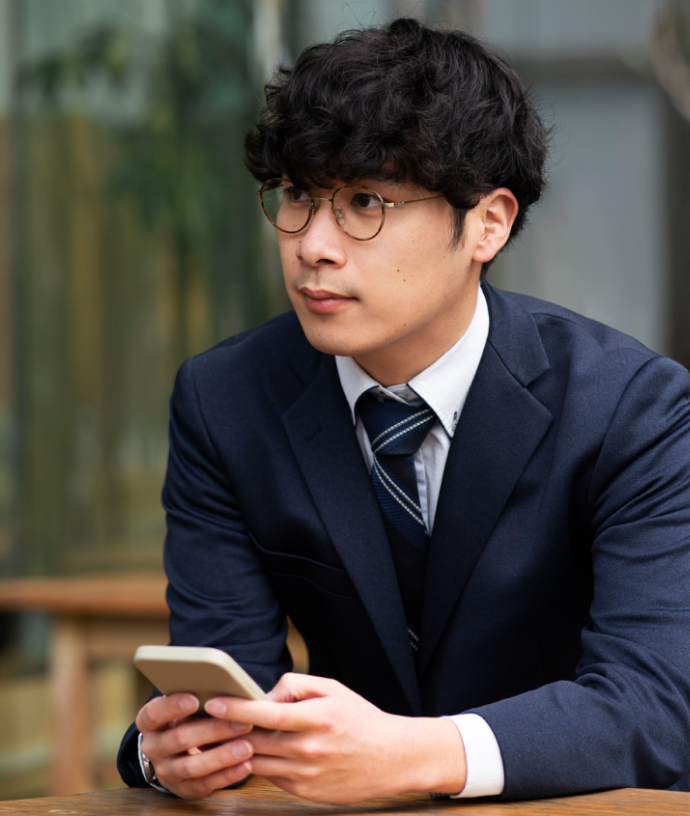
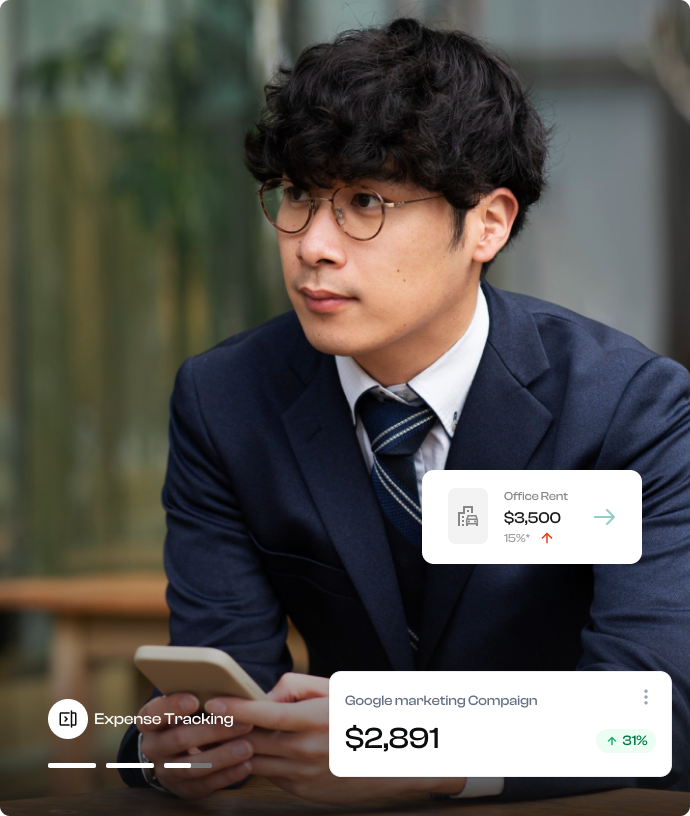
hero img

Changed region(s): [[0.0, 0.7659, 1.0, 1.0], [0.6087, 0.5515, 0.9435, 0.7047]]

diff --git a/apicalypse-front/src/pages/Home/HomePage.jsx b/apicalypse-front/src/pages/Home/HomePage.jsx
@@ -1,6 +1,7 @@
 
 import { MdArrowRightAlt } from "react-icons/md";
 import img1 from "../../assets/img/hero/imgHome1.png"
+import img2 from "../../assets/img/hero/imgHome2.png"
 import './home.css'
 import LogoSlider from "./LogoSlider"
 
@@ -62,8 +63,9 @@ const HomePage = () => {
           </div>
 
           {/* img */}
-          <div className=" bg-red-00 w-[40%]">
+          <div className=" bg-red-00 w-[40%] relative">
             <img className="w-full rounded-[30px]" src={img1} alt="" />
+            <img className="w-[50%] absolute top-[40%] left-[-15%]" src={img2} alt="" />
           </div>
         </section>
       </div>
